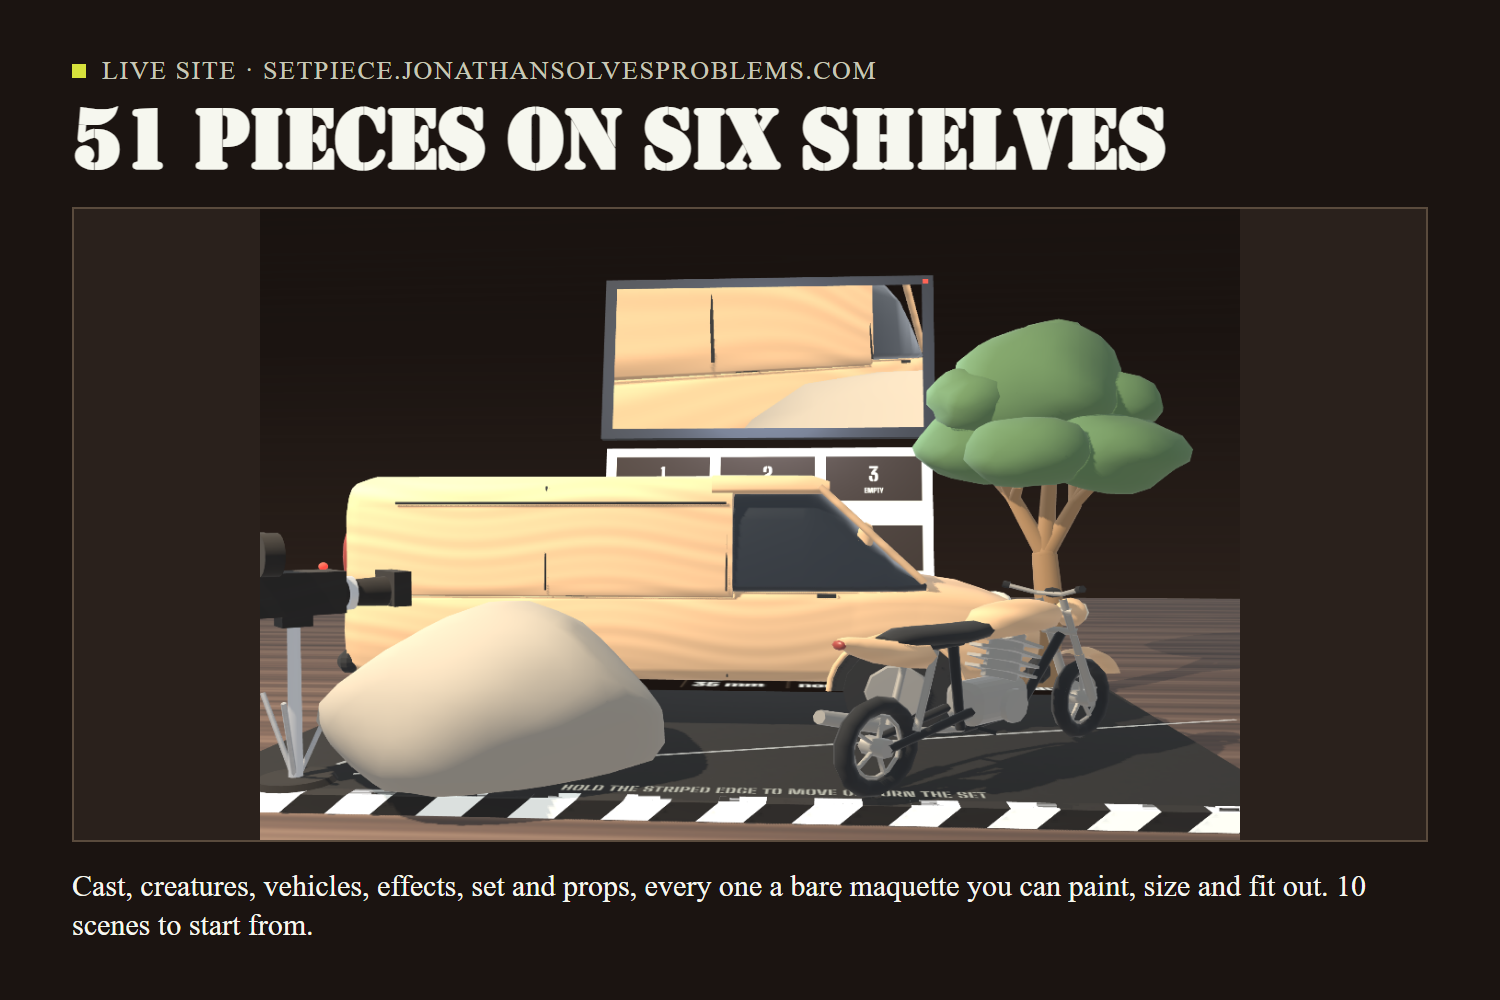
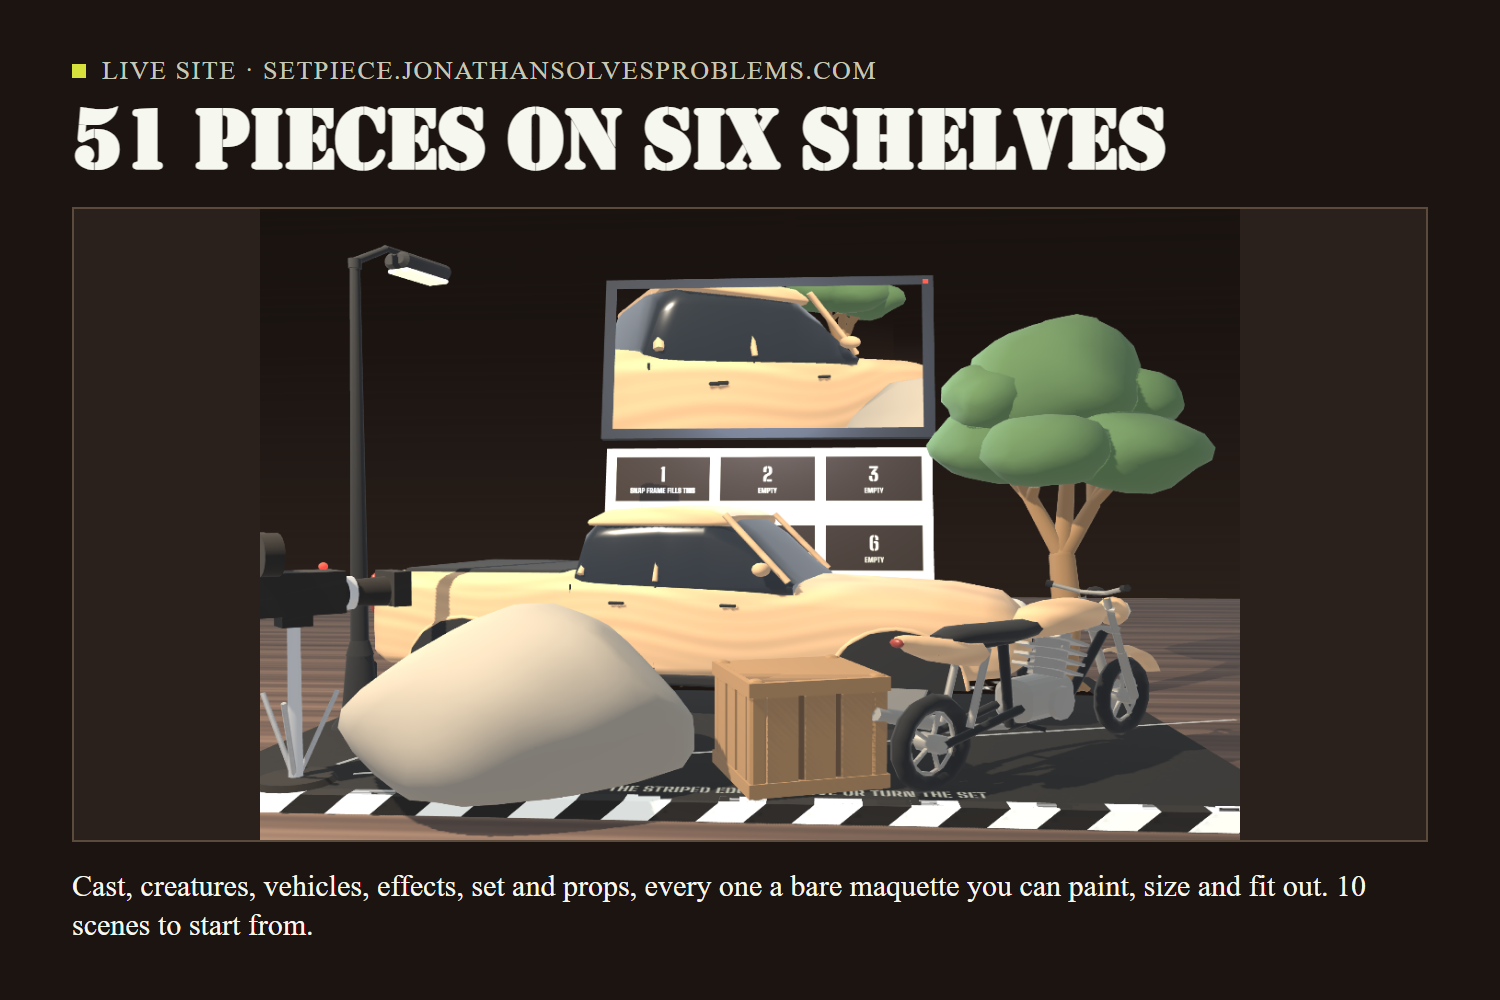
Show six of the rebuilt pieces on the library slide, and give the gallery renderer time under software GL

Changed region(s): [[0.2147, 0.248, 0.828, 0.837], [0.7973, 0.744, 0.828, 0.775]]

diff --git a/tools/gallery.py b/tools/gallery.py
@@ -146,7 +146,8 @@ async def wait_ready(page):
 async def shot(page, path: Path, selector: str | None = None, bottom: int | None = None):
     """A full-viewport screenshot, cropped afterwards: a clipped capture fails under software GL."""
     from PIL import Image
-    await page.screenshot(path=str(path))
+    # Software GL can take the better part of a minute on a full set; the default 30 s cuts some renders off.
+    await page.screenshot(path=str(path), timeout=120000)
     if selector is None and bottom is None:
         return
     box = await page.evaluate(f"(() => {{ const r = document.querySelector('{selector or '.flag'}').getBoundingClientRect(); return [r.x, r.y, r.width, r.height]; }})()")
@@ -291,14 +292,14 @@ async def live_capture(browser, recipe: str, out: Path) -> Path:
             x += i.width + 16
         sheet.save(png)
     elif recipe == 'pieces':
-        # The rebuilt vehicles and set dressing, standing on the slate together.
-        await say('new scene with a van, a motorbike, a tree and a rock')
+        # Six shelves' worth of rebuilt pieces standing on the slate together.
+        await say('new scene with a pickup, a motorbike, a lamp post, a tree, a crate and a rock')
         await page.wait_for_timeout(1800)
-        # Spread out so each one reads: the van across the middle, the tree behind it, the bike and the rock in front.
+        # Spread out so each one reads: the pickup across the back, the tree behind its nose, the lamp post at the front left, the bike, crate and rock in front.
         placed = await page.evaluate("""(async () => {
           const w = globalThis.setpiece.world;
           const tray = [...w.getSystems()].find((s) => s.managed && s.finish);
-          const at = { Van: [-0.04, -0.05, 90], Motorbike: [0.15, 0.12, 135], Tree: [0.25, -0.16, 0], Rock: [-0.14, 0.135, 30] };
+          const at = { Pickup: [-0.04, -0.09, 80], Motorbike: [0.18, 0.11, 135], 'Lamp post': [-0.27, 0.04, 160], Tree: [0.26, -0.14, 0], Crate: [0.04, 0.15, 20], Rock: [-0.12, 0.15, 30] };
           const found = [];
           for (const p of tray.managed) {
             const k = tray.key(p); const spot = at[k];
@@ -310,7 +311,7 @@ async def live_capture(browser, recipe: str, out: Path) -> Path:
           await new Promise((d) => setTimeout(d, 800));
           return found.sort();
         })()""")
-        assert placed == ['Motorbike', 'Rock', 'Tree', 'Van'], placed
+        assert placed == ['Crate', 'Lamp post', 'Motorbike', 'Pickup', 'Rock', 'Tree'], placed
         await stage_png(page, png)
     elif recipe == 'exports':
         # What a director actually leaves with: the board image and the shot list, saved by the page's own buttons.

diff --git a/PHASE0.md b/PHASE0.md
@@ -231,7 +231,7 @@ Demo script, 75 seconds, all captured in the headset in a real room, no generate
 
 Nov 9 evening, after the cold judge: two of his requests built and proven in the emulator only. Vehicles drive: a car, van or bike let go while the hand is still moving rolls on along its nose, slows by friction, and stops at the slate's edge (both front corners tested), against a solid piece, or against an actor, who goes down if it arrives at 1 m/s or more on the real set (`src/pieces.ts`, the speeds shared with the knock-down rule through `src/contact.ts`); a take records the roll and plays the knock-down back at the same moment (`tmp/t-rollplay.mjs`). The van, motorbike, tree and rock are rebuilt as shaped forms within triangle budgets (tree 2,692, van 3,768, motorbike 1,972, rock 720). A fresh code review of that diff found two real gaps, both fixed the same evening: a knock-down caused by a roll did not reproduce on playback, because the car stopped a few millimetres short of the distance the playback rule needs; and a car still rolling when a take started fought the recorded poses. Render cost after the rebuild, read from the renderer in the emulator: the library scenes draw 88 to 126 calls and 10,000 to 16,000 triangles a frame; a worst case with five vehicles, a tree, a rock, a dragon and two actors draws 153 calls and 32,000 triangles. The device measured 90 fps at about 109 calls on Nov 5, so the worst case is measured on the headset before it is claimed. Nothing from this evening has run on the Quest.
 
-Nov 10, before the next device session. A contact sheet of all 39 models showed the pickup, truck, bus and boat as box blockouts next to the rebuilt car and van, so they are rebuilt the same way: lofted shells with a glass band, pillars, lamps that wrap the corners, arched wheels, door shuts and the fittings that make the eye read each one (`src/scene-assets/lib/pickup.ts`, `truck.ts`, `bus.ts`, `boat.ts`). Pickup 5,344 triangles; truck 4,652, with its box, flatbed and tanker as Style groups; bus 4,356; boat 2,944. Checked in the emulator on the contact sheet, in the three library scenes that use them (Alien landing, Sea monster, Dinosaur escape, where the actors still stand on the flatbed) and with paint and the truck's loads cycled in the app. The four driving tests pass with the same numbers as before. Render cost re-read after the rebuild: the library scenes draw 88 to 126 calls and 10,000 to 21,000 triangles a frame; the worst case (five vehicles, a tree, a rock, a dragon, two actors) draws 151 calls and 38,000 triangles, still to be measured on the headset. A tooling lesson: the editor realm that renders model previews keeps old modules after a page reload, so a model edit is checked after a dev-server restart, and the browser console is read for a ReferenceError before a preview is trusted. Later the same day: the wall (courses, pilasters, coping), lamp post (fluted base, curved arm, lantern lit from below) and crate (boards over a darker box) rebuilt the same way, at 996, 756 and 804 triangles. The panel text that vanished once on Nov 6 was chased two ways: the baked font atlases hold 91 ASCII glyphs and the panel's strings are all ASCII (the "·" and "°" in the code go to the canvas coach sheet and the page, not to UIKit), and a stress test of 30 fast tab switches with the glyph count read after each (`tmp/val13.py`) kept every page's text. It stays on the headset watch list.
+Nov 10, before the next device session. A contact sheet of all 39 models showed the pickup, truck, bus and boat as box blockouts next to the rebuilt car and van, so they are rebuilt the same way: lofted shells with a glass band, pillars, lamps that wrap the corners, arched wheels, door shuts and the fittings that make the eye read each one (`src/scene-assets/lib/pickup.ts`, `truck.ts`, `bus.ts`, `boat.ts`). Pickup 5,344 triangles; truck 4,652, with its box, flatbed and tanker as Style groups; bus 4,356; boat 2,944. Checked in the emulator on the contact sheet, in the three library scenes that use them (Alien landing, Sea monster, Dinosaur escape, where the actors still stand on the flatbed) and with paint and the truck's loads cycled in the app. The four driving tests pass with the same numbers as before. Render cost re-read after the rebuild: the library scenes draw 88 to 126 calls and 10,000 to 21,000 triangles a frame; the worst case (five vehicles, a tree, a rock, a dragon, two actors) draws 151 calls and 38,000 triangles, still to be measured on the headset. A tooling lesson: the editor realm that renders model previews keeps old modules after a page reload, so a model edit is checked after a dev-server restart, and the browser console is read for a ReferenceError before a preview is trusted. Later the same day: the wall (courses, pilasters, coping), lamp post (fluted base, curved arm, lantern lit from below) and crate (boards over a darker box) rebuilt the same way, at 996, 756 and 804 triangles. The panel text that vanished once on Nov 6 was chased two ways: the baked font atlases hold 91 ASCII glyphs and the panel's strings are all ASCII (the "·" and "°" in the code go to the canvas coach sheet and the page, not to UIKit), and a stress test of 30 fast tab switches with the glyph count read after each (`tmp/val13.py`) kept every page's text. It stays on the headset watch list. Gallery slide 09 recomposed from the live site with six of the rebuilt pieces (pickup, motorbike, lamp post, tree, crate, rock).
 
 Dates, revised on Nov 9: next device session (later this week): first, push a car with a real hand and let go, then the timed run (field 6), five relaunches with and five without the saved pose, a `metavr perf capture` trace, the occlusion trial looked at, and a watch for the panel text that vanished once on Nov 6. Nov 12: the outreach sent and named; three outside testers timed. Nov 14: video captured in the headset; Sookra's profile re-checked. Nov 16: the gate, with the fresh-clone test, the cold judge again and a review of the final diff. Nov 17: submit, and the teardown reminder for Dec 14 created in the same session. Nothing deploys after Nov 18 12:00 PT.
 
